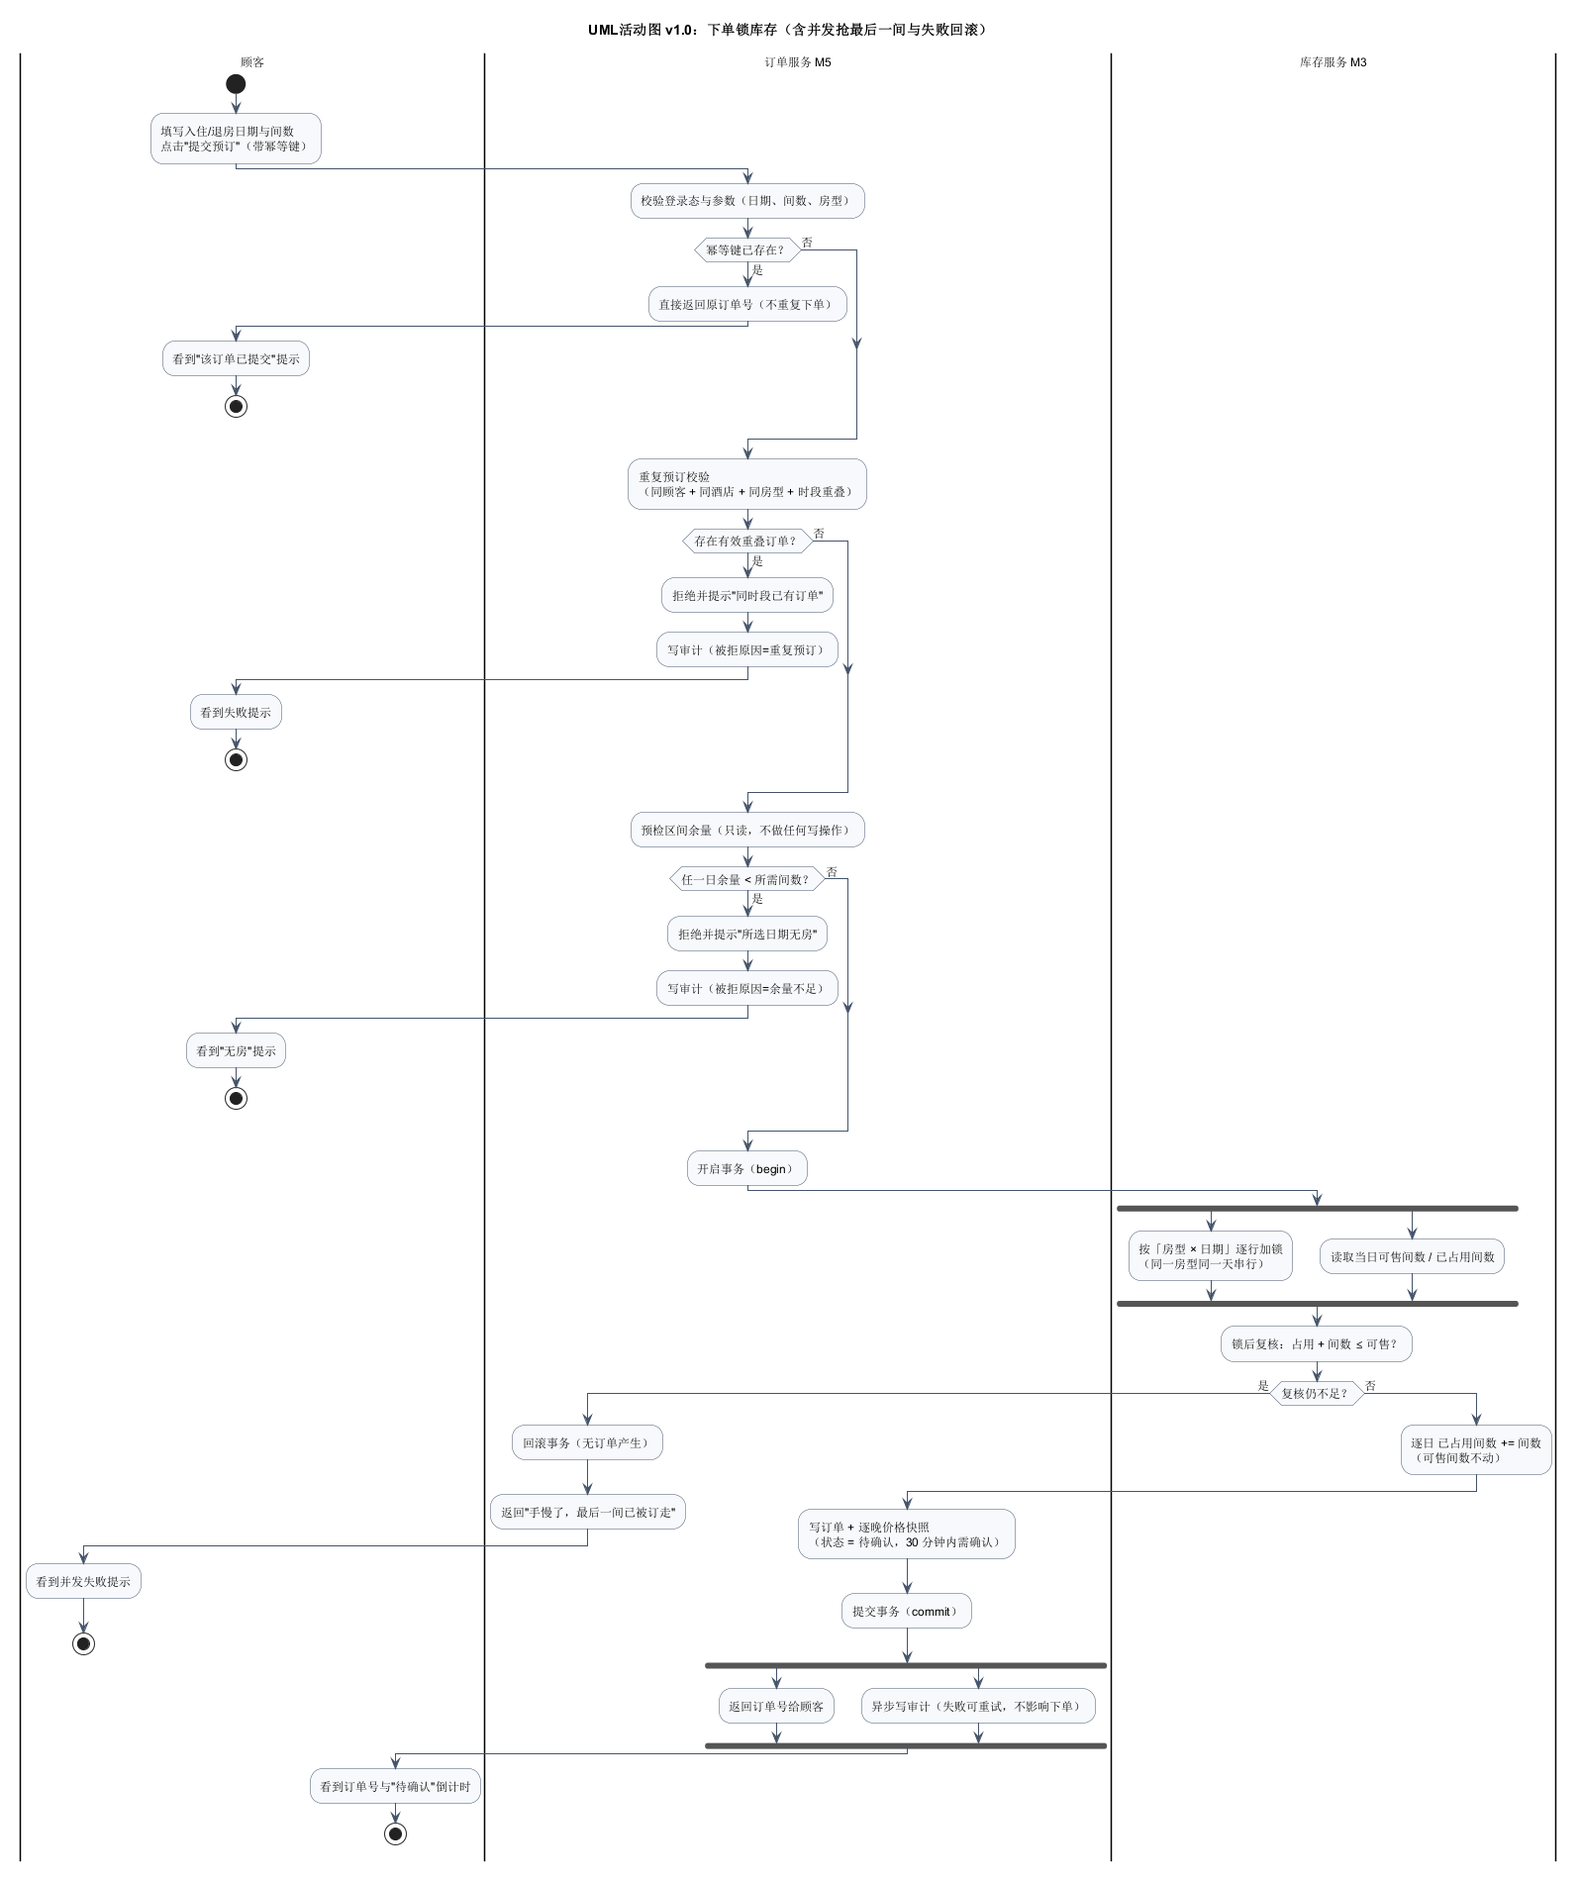
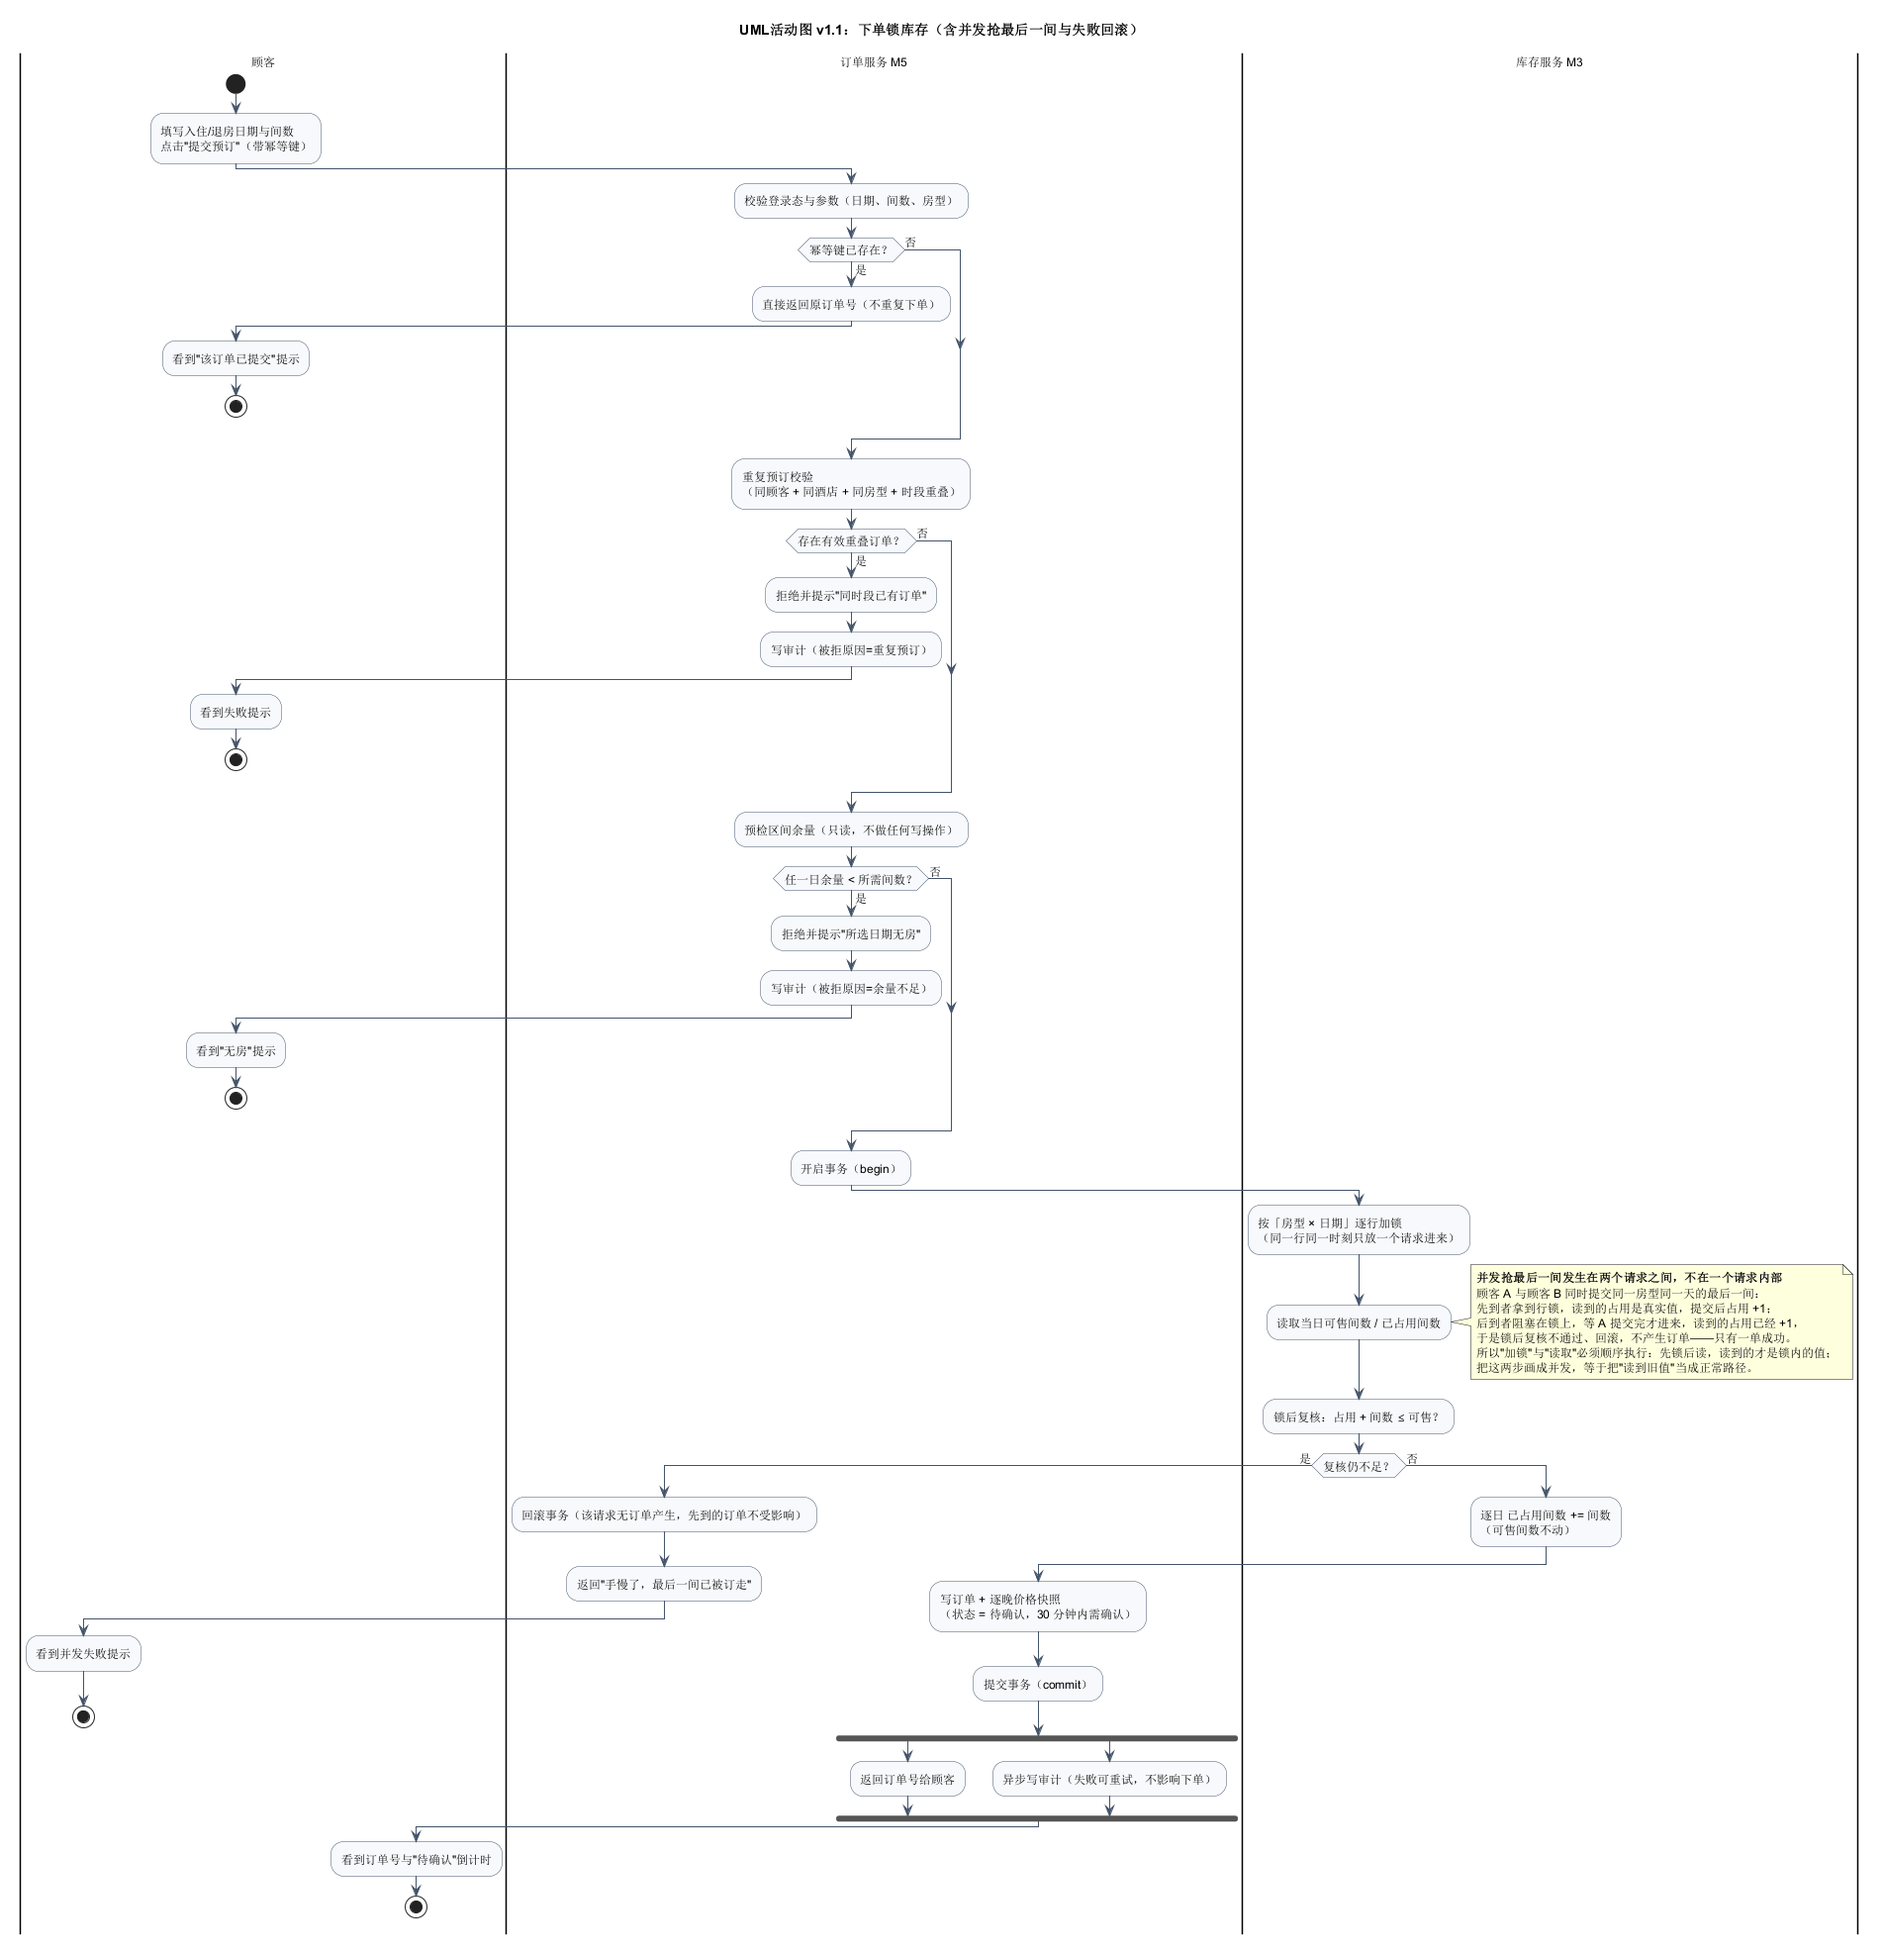
[S3-fix] 行为图按 R-05~R-08 修订：21 个用例、边拆合规则、加锁与读取改顺序
- 用例图 v1.2：新增 UC21 判定取消政策（REQ-010、REQ-023），UC07 的 include
  由"维护节假日字典"改为指向它；title 与文件头注记同步为 21 个用例；
  顺手改掉注释里的错字"版面临可读"→"版面可读"。
- 状态图 v1.2：拆/合规则的注释改成设计文档口吻，逐条说明 T2/T3、T4/T5
  为什么拆、T7 为什么合，判据是"落库时写的是不同列还是同一列"。
- 活动图 v1.1：「逐行加锁」与「读取当日可售/已占用」由 fork 并发改为顺序
  两句，并补注释说明抢最后一间的交错过程；返回订单号/异步写审计那处 fork 保留。
- 计数同步：阶段卡与执行方案里的用例数 20→21，画成边的 include 3→2 条。
- 三张 PNG 重渲染。check.py --stage 3 = 20/20，--stage 1 = 50/50。

diff --git a/exp2/实验二_执行方案.md b/exp2/实验二_执行方案.md
@@ -418,5 +418,5 @@ exp2/
 | 2026-11-12 | **S1 返工（R-01）**：库存口径改为「可售间数=酒店挂牌量、已占用间数落库、余量=可售−占用、下单只改占用」；03 §5 整节重写、02 M3 接口与三条链路、01 术语表、本方案 C/D/F/H/N 节同步；check.py 增 3 项 + 2 个禁用词并修 3 处偏松 | 提交 `[S1-fix]`，标签 `stage-1b`，复验 A1–A11 |
 | 2026-11-12 | **S2 结构图**：类图（13 类型 + 3 服务 + 3 仓储接口）、包图（四层 + M1–M10 + 唯一一条依赖倒置箭头）、组件图（10 组件 + 20 接口 + S/A/T/R）；`验收/check.py` 的 S2 判据按阶段卡补实（`class_body()`、RoomInventory 反推字段检查） | `check.py --stage 2` = 23/23 PASS；标签 `stage-2` |
 | 2026-11-12 | **S2 返工**（评审判 3 项中级 + 4 项低级）：R2-01 删掉独立 `Role` 类、角色改为 `UserAccount.角色` 枚举字段（13 个类型回到 12 表 + BookingStatus 自洽）；R2-02 补 `Booking.酒店ID` 与 `Booking—Hotel 属于`；R2-03 终态注释改为"已退房/已取消/未入住，已入住仍可走 T8"；R2-04 节假日改为平台级字典（去掉 Hotel 归属）；R2-05 补 `I21 趋势与导出`；R2-06 版本统一 v1.1；R2-07 组件图加注"10 业务组件 + 2 支撑件"；`check.py` 增 6 项（实体包恰好 13、无 Role 类、Booking.酒店ID、Booking—Hotel 边、终态注释、逐组件接口数） | `check.py --stage 2` = 29/29 PASS；标签 `stage-2b`；4 个负向用例全部被抓 |
-| 2026-11-12 | **S3 行为图**：`UML用例图`（4 类参与者、20 个用例各带 REQ 号、覆盖 25 条 REQ；3 条 include + 1 条 extend 画成边，另 2 条关系写在注释里说明为什么省略）、`UML状态图`（6 状态、T1–T8 八条边、6 种状态对、5 条禁止转换与 409 后果）、`UML活动图`（3 条泳道、4 个判定、fork 并发 + 锁后复核 + 回滚节点）；`check.py` 的 S3 判据由 4 项补到 20 项 | `check.py --stage 3` = 20/20 PASS；标签 `stage-3`；3 个负向用例全部被抓（画非法边 / 删 T8 / 删泳道） |
+| 2026-11-12 | **S3 行为图**：`UML用例图`（4 类参与者、21 个用例各带 REQ 号、覆盖 25 条 REQ；2 条 include + 1 条 extend 画成边，另 2 条关系写在注释里说明为什么省略）、`UML状态图`（6 状态、T1–T8 八条边、6 种状态对、5 条禁止转换与 409 后果）、`UML活动图`（3 条泳道、4 个判定、fork 并发 + 锁后复核 + 回滚节点）；`check.py` 的 S3 判据由 4 项补到 20 项 | `check.py --stage 3` = 20/20 PASS；标签 `stage-3`；3 个负向用例全部被抓（画非法边 / 删 T8 / 删泳道） |
 | 待办 | S4–S9：交互图 → UI → 报告 → AI 章节 → 打包 | 见 `实验二_阶段与验收.md` |

diff --git a/exp2/实验二_阶段与验收.md b/exp2/实验二_阶段与验收.md
@@ -143,7 +143,7 @@
 | S1 | **通过（stage-1b）** | 三份基线定稿、`验收/check.py`、口径卡冻结；R-01 已修（可售=挂牌量、已占用落库、余量=可售−占用）；复验 D-11/门禁项见下 | `check.py --stage 1` = 43/43 PASS（`stage-1b` = `fb2b1eb`）；复验 2026-11-12，**红线 0 命中** |
 | S2 开工门禁 | **完成** | E-01 勘误横幅、R-02 `puml.cmd` 重写（CRLF + ASCII 注释，stderr 干净、1.52s）、R-03 03 §9 唯一约束清单、T-08 T5/T6 时间点、D-05/D-06 标签与登记、D-09 M3 补接口、D-11 禁用词扫描扩面 | `check.py --stage 1` = 50/50 PASS；标签 `stage-1c` |
 | S2 | **完成（stage-2b）** | 三张结构图：`UML/UML类图.puml`（13 类型 + 3 服务 + 3 仓储接口，2748×1428）、`UML/UML包图.puml`（四层 + M1–M10 + 唯一一条依赖倒置实现箭头，2091×2134）、`UML/UML组件图.puml`（10 组件 + 21 个具名接口 + S/A/T/R 联接，1972×1070） | `check.py --stage 2` = 29/29 PASS；标签 `stage-2b`（`stage-2` 保留不改） |
-| S3 | **完成（stage-3）** | 三张行为图：`UML/UML用例图.puml`（4 类参与者 + 20 个用例，每个用例带 REQ 号，覆盖 25 条 REQ）、`UML/UML状态图.puml`（6 状态 + 8 条转换边 + 6 种状态对 + 5 条禁止转换注释）、`UML/UML活动图.puml`（3 条泳道 + 4 个判定 + fork 并发 + 锁后复核 + 回滚） | `check.py --stage 3` = 20/20 PASS；标签 `stage-3`；负向测试 3 例全部被抓（画非法边 / 删 T8 / 删泳道） |
+| S3 | **完成（stage-3）** | 三张行为图：`UML/UML用例图.puml`（4 类参与者 + 21 个用例（含 UC21 判定取消政策），每个用例带 REQ 号，覆盖 25 条 REQ）、`UML/UML状态图.puml`（6 状态 + 8 条转换边 + 6 种状态对 + 5 条禁止转换注释）、`UML/UML活动图.puml`（3 条泳道 + 4 个判定 + fork 并发 + 锁后复核 + 回滚） | `check.py --stage 3` = 20/20 PASS；标签 `stage-3`；负向测试 3 例全部被抓（画非法边 / 删 T8 / 删泳道） |
 | S4–S9 | 未开始 | — | — |
 
 ### 5.1 标签与提交对照（复验 D-05：标签必须能对上提交号）
